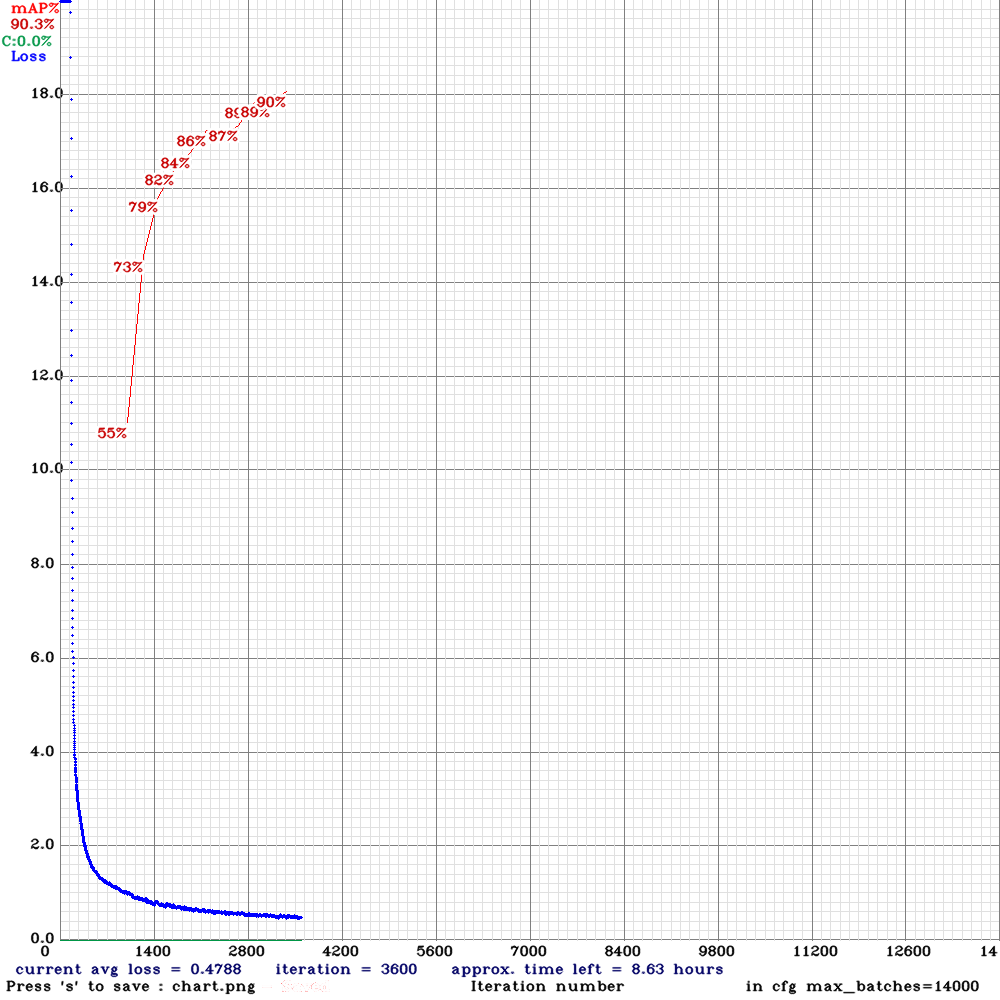
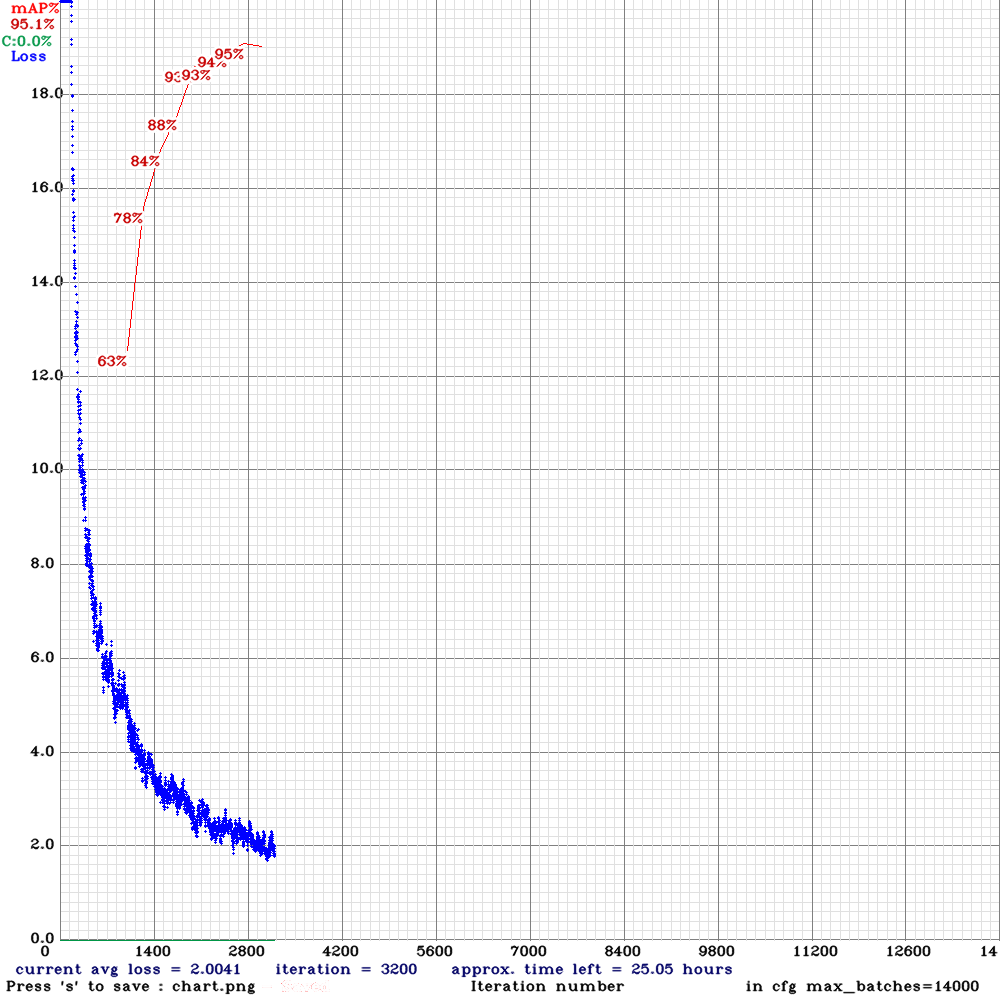
add new image (chart result) and description

diff --git a/README.md b/README.md
@@ -22,9 +22,9 @@ appearance of each fish for the dataset
 
 ### Eyes and skins condition of fish
 
-Appearance of condition eye and skin of fish.
+Appearance of sample condition eye and skin of fish for _Retrelliger Kanagurta_, _Auxis Rochei_, and Caranx Sexfaciatus.
 
-| Condition / Fish Name      | _Restrelliger kanagurta_                    | _Auxis rochei_                              | _Caranx sexfaciatus_                        |
+| Condition / Fish Name      | _Restrelliger Kanagurta_                    | _Auxis Rochei_                              | _Caranx Sexfaciatus_                        |
 |----------------------------|---------------------------------------------|---------------------------------------------|---------------------------------------------|
 | Fresh Eyes - Fresh Skins   | ![-](assets/images/fish-category/BR-FF.jpg) | ![-](assets/images/fish-category/TL-FF.jpg) | ![-](assets/images/fish-category/KL-FF.jpg) |
 | Fresh Eyes - Medium Skins  | **No Sample**                               | ![-](assets/images/fish-category/TL-FM.jpg) | **No Sample**                               |
@@ -37,8 +37,6 @@ Appearance of condition eye and skin of fish.
 | Spoil Eyes - Spoil Skins   | ![-](assets/images/fish-category/BR-SS.jpg) | ![-](assets/images/fish-category/TL-SS.jpg) | ![-](assets/images/fish-category/KL-SS.jpg) |
 
 ## Experimental Process
-### Result of experimental
-
 Setup of hyperparameter of YOLOv4 and YOLOv4-Tiny
 
 | No. | Model       | Pretrained Model       | Dimension | Data Augmentation | With Empty Label | Iteration | Learning Rate | Momentum | Decays | Batch Size |
@@ -50,28 +48,47 @@ Setup of hyperparameter of YOLOv4 and YOLOv4-Tiny
 | 5.  | YOLOv4-Tiny | yolov4.tiny.conv.29    | 416x416   | Yes               | No               | 14000     | 0.00261       | 0.9      | 0.0005 | 64         |
 | 6.  | YOLOv4-Tiny | yolov4.tiny.conv.29    | 416x416   | Yes               | Yes              | 14000     | 0.00261       | 0.9      | 0.0005 | 64         |
 
+Charts during the training process. There is chart (a), (b) and (c) cause my sessions during training ended in google colab.
+
+| Model No. | (a)                                     | (b)                                     | (c)                                     |
+|-----------|-----------------------------------------|-----------------------------------------|-----------------------------------------|
+| 1.        | ![model_1](model/model_1/model1.png)    |                                         |                                         |
+| 2.        | ![model_2](model/model_2/model2(a).png) | ![model_2](model/model_2/model2(b).png) |                                         |
+| 3.        | ![model_3](model/model_3/model3(a).png) | ![model_3](model/model_3/model3(b).png) | ![model_3](model/model_3/model3(c).png) |
+| 4.        | ![model_4](model/model_4/model4(a).png) | ![model_4](model/model_4/model4(b).png) |                                         |
+| 5.        | ![model_5](model/model_5/model5(a).png) | ![model_5](model/model_5/model5(b).png) |                                         |
+| 6.        | ![model_6](model/model_6/model6.png)    |                                         |                                         |
+
+
 Model Evaluation (in percentage (%)).
 
-| No. | Precisions | Recall | F1 Score | mAP   | AP Fish | AP Fresh eye | AP Fresh Skin | AP Medium Eye | AP Medium Skin | AP Spoil Eye | AP Spoil Skin |
-|-----|------------|--------|----------|-------|---------|--------------|---------------|---------------|----------------|--------------|---------------|
-| 1.  | 89         | 98     | 93       | 99.17 | 99.1    | 99           | 99.7          | 99.8          | 99.3           | 99.6         | 99.7          |
-| 2.  | 85         | 94     | 90       | 96.87 | 99.5    | 97.6         | 97.5          | 94.4          | 93.9           | 97.8         | 97.4          |
-| 3.  | 81         | 92     | 86       | 93.32 | 99.3    | 96.8         | 96.8          | 88.6          | 87.1           | 95           | 88.5          |
-| 4.  | 83         | 95     | 88       | 95.79 | 99.7    | 97.2         | 97.2          | 91            | 92.7           | 97.5         | 95.1          |
-| 5.  | 84         | 97     | 90       | 97.25 | 98.7    | 98.6         | 98.6          | 94.8          | 95.5           | 98.4         | 96.7          |
-| 6.  | 84         | 94     | 89       | 93.63 | 99.7    | 97.3         | 97.3          | 90.3          | 89.1           | 96.7         | 88            |
+| Model No. | Precisions | Recall | F1 Score | mAP   | AP Fish | AP Fresh eye | AP Fresh Skin | AP Medium Eye | AP Medium Skin | AP Spoil Eye | AP Spoil Skin |
+|-----------|------------|--------|----------|-------|---------|--------------|---------------|---------------|----------------|--------------|---------------|
+| 1.        | 89         | 98     | 93       | 99.17 | 99.1    | 99           | 99.7          | 99.8          | 99.3           | 99.6         | 99.7          |
+| 2.        | 85         | 94     | 90       | 96.87 | 99.5    | 97.6         | 97.5          | 94.4          | 93.9           | 97.8         | 97.4          |
+| 3.        | 81         | 92     | 86       | 93.32 | 99.3    | 96.8         | 96.8          | 88.6          | 87.1           | 95           | 88.5          |
+| 4.        | 83         | 95     | 88       | 95.79 | 99.7    | 97.2         | 97.2          | 91            | 92.7           | 97.5         | 95.1          |
+| 5.        | 84         | 97     | 90       | 97.25 | 98.7    | 98.6         | 98.6          | 94.8          | 95.5           | 98.4         | 96.7          |
+| 6.        | 84         | 94     | 89       | 93.63 | 99.7    | 97.3         | 97.3          | 90.3          | 89.1           | 96.7         | 88            |
 
+Weight result from each model (Wait till my journal release)\
+<a href="https://github.com/mlkabdazz/pickfish-modelling/tree/main/model/model_1">Model Number 1</a>\
+<a href="https://github.com/mlkabdazz/pickfish-modelling/tree/main/model/model_2">Model Number 2</a>\
+<a href="https://github.com/mlkabdazz/pickfish-modelling/tree/main/model/model_3">Model Number 3</a>\
+<a href="https://github.com/mlkabdazz/pickfish-modelling/tree/main/model/model_4">Model Number 4</a>\
+<a href="https://github.com/mlkabdazz/pickfish-modelling/tree/main/model/model_5">Model Number 5</a>\
+<a href="https://github.com/mlkabdazz/pickfish-modelling/tree/main/model/model_6">Model Number 6</a>
 
 ### Selected model
 From the six models has been trained, two models were selected to be implemented in mobile applications. YOLOv4 (Model No. 1) dan YOLOv4-Tiny (Model No. 5)
+YOLOv4 Model : wait till my journal release. Sorry.
+YOLOv4-Tiny Model : wait till my journal release. Sorry.
 
-
-## My Publications (on review)
+## My Publications (ON REVIEW)
 Non-Destructive Fish Freshness Detection System for Mobile Application Using YOLOv4 and YOLOv4-Tiny
 
-
 ## References
-
 - <a href="https://github.com/AlexeyAB/darknet">darknet</a>
 - <a href="https://arxiv.org/abs/2004.10934">YOLOv4: Optimal Speed and Accuracy of Object Detection</a>
 - <a href="https://github.com/hunglc007/tensorflow-yolov4-tflite">tensorflow-yolov4-tflite</a>
+- Fish Name: <a href="http://nelpin.kkp.go.id/index.php/bantuan/apendix_ikan">Sistem Informasi Kenelayanan</a>
